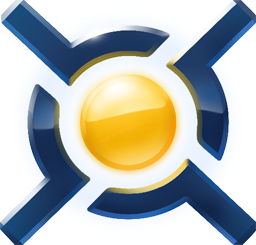
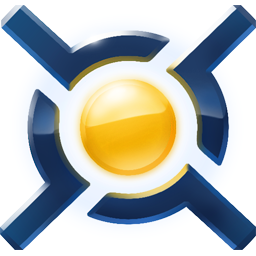
chore: platform conformance batch for boinc and boinctui (#132)
* chore: platform conformance batch for boinc and boinctui

Five small items from TODO.md that share the same expensive verification --
booting a real Supervisor -- so they are grouped to amortise it. All verified
against the devcontainer.

`map: [addon_config]` becomes `app_config`. Supervisor warned about the legacy
spelling on every store scan; after the change BOINC no longer appears in that
warning list, and `/config` is still mounted read-only, so nothing about the
add-on's access changed.

`account_manager_url` becomes `url?` instead of `str?`. The installed add-on now
reports the field as `{'type': 'string', 'format': 'url'}`, so a typo is caught in
the Configuration tab rather than surfacing later as a runtime log error.

Both icons are padded from 256x245 to a square 256x256 with transparency, not
rescaled, so they stop being letterboxed in the store. `docs/icon.png` is a symlink
and follows.

The Dockerfile labels disagreed between the two add-ons for no reason: vendor,
license and url now match across both, with the license in SPDX form. The
`build.yaml` files carried a third spelling of the license and were aligned too.

And a comment on the PID 1 check in main.py, which silently depends on
`init: false` -- setting `init: true` would put Docker's init at PID 1 and disable
the Protection Mode warning the README leads with, with no other symptom.

`boinc/README.md` also gains a short section on the two permissions that were
[…]

diff --git a/boinc/operator/main.py b/boinc/operator/main.py
@@ -30,6 +30,10 @@ logging.basicConfig(level=args.log_level, format='%(asctime)s %(levelname)s %(me
 current_pid = os.getpid()
 logging.info(f'Starting BOINC Add-on Operator with pid {current_pid}')
 
+# This heuristic depends on `init: false` in config.yaml: with no init system in the image, the
+# operator is PID 1 exactly when Protection Mode confines the container to its own PID namespace,
+# and `host_pid: true` gives it the host's namespace (so a much higher PID) when it does not.
+# Setting `init: true` would put Docker's init at PID 1 and silently disable this warning.
 if current_pid == 1:
     logging.warning('Protection Mode is enabled. BOINC requires system-wide usage monitoring to function properly.')
 

diff --git a/boinc/README.md b/boinc/README.md
@@ -11,5 +11,12 @@ The BOINC app, running on your Home Assistant, downloads scientific computing jo
 
 **This app requires Protection Mode to be disabled** to monitor system-wide CPU usage and automatically suspend computations when other services need resources.
 
+## What else this app asks for
+
+Home Assistant lists the permissions an app requests before you install it. Besides the CPU monitoring above, this app asks for two that are worth explaining:
+
+- **Graphics device access** — so BOINC can use your graphics card for projects that offer GPU work. Without it those projects fall back to the processor.
+- **Docker access** — some science projects ship their work as containers, and BOINC needs this to run them. It is the broadest permission this app requests: anything with Docker access can start and stop containers on your Home Assistant machine. If you would rather not grant it, this app is not for you; there is no option to turn it off separately.
+
 [aarch64-shield]: https://img.shields.io/badge/aarch64-yes-green.svg
 [amd64-shield]: https://img.shields.io/badge/amd64-yes-green.svg

diff --git a/boinc/CHANGELOG.md b/boinc/CHANGELOG.md
@@ -1,5 +1,11 @@
 # Changelog
 
+## 3.9.1
+
+The Account Manager URL field now rejects an address that is not a valid URL as you type it, instead of failing later when the app starts
+
+The app icon is no longer slightly squashed in the app store
+
 ## 3.9.0
 
 `max_ncpus` and `cpu_usage_limit` now also limit CPU usage while the computer is in use, instead of only while it is not in use

diff --git a/boinctui/CHANGELOG.md b/boinctui/CHANGELOG.md
@@ -1,5 +1,9 @@
 # Changelog
 
+## 2.4.2
+
+The app icon is no longer slightly squashed in the app store
+
 ## 2.4.1
 
 Fix the app failing to build from source
